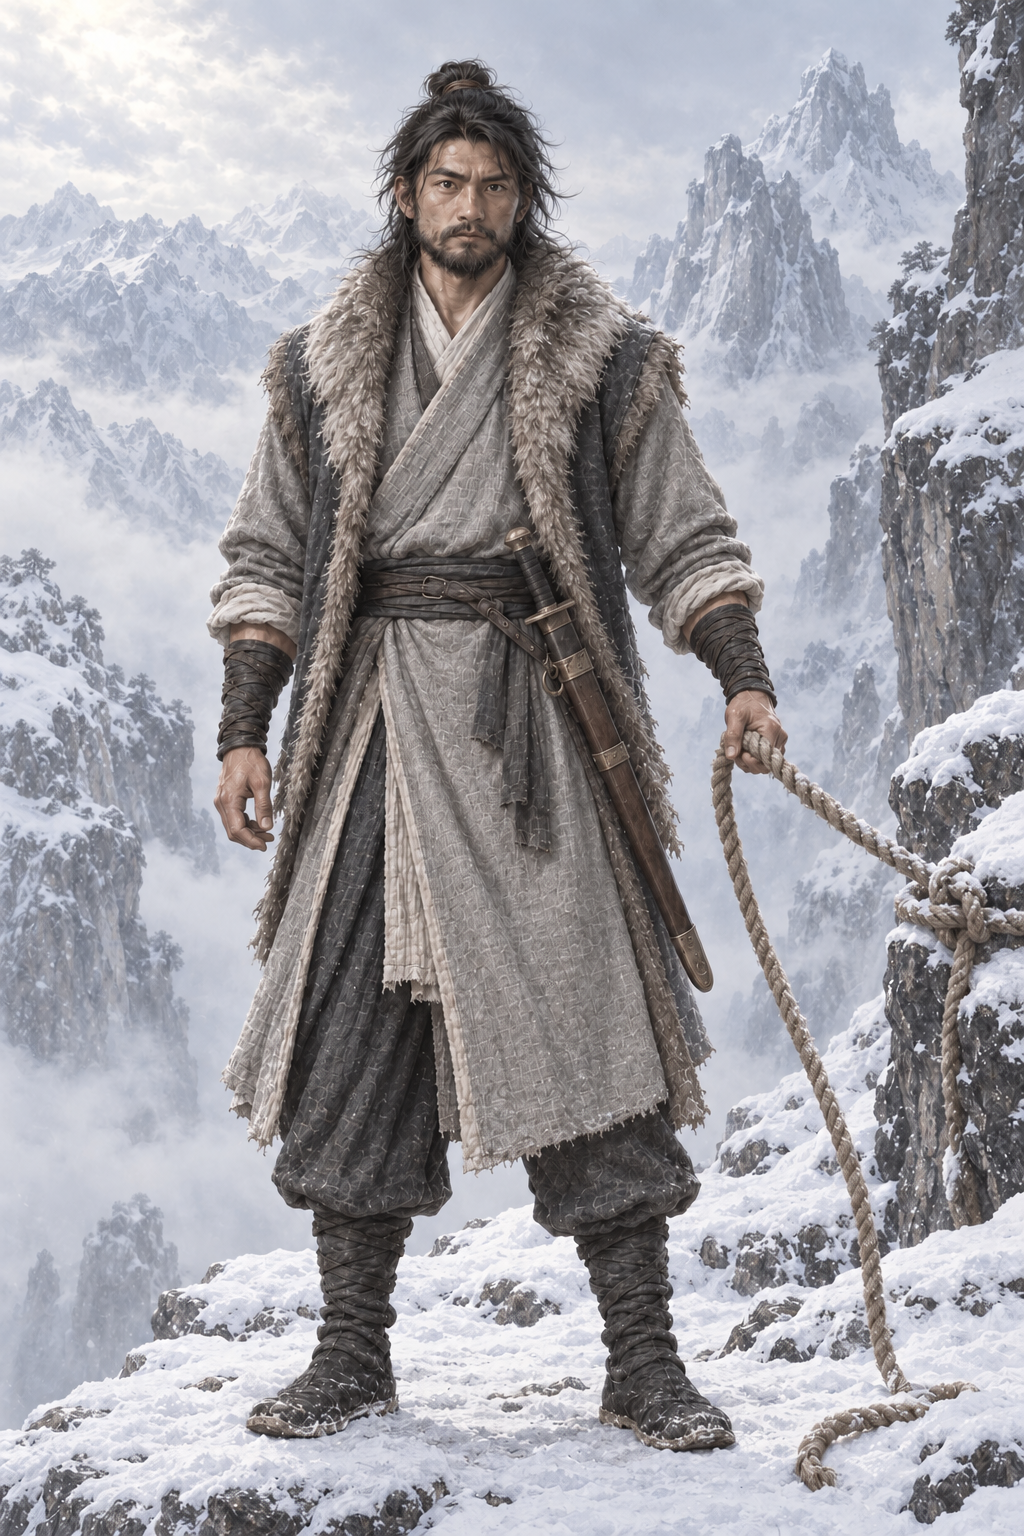
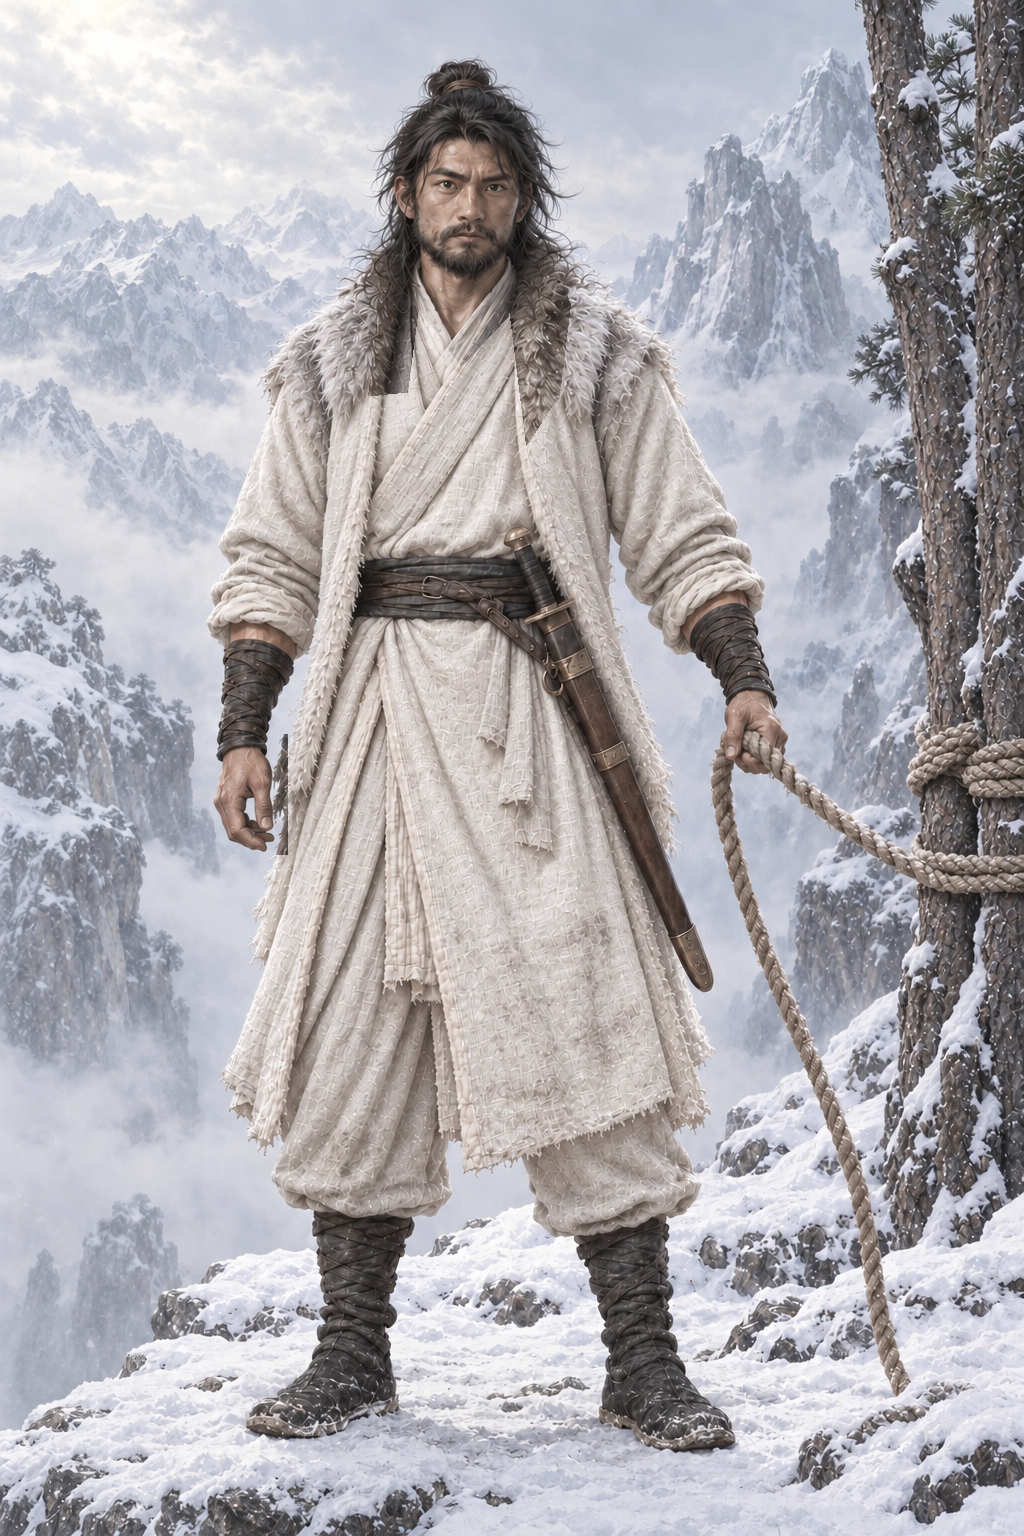
assets: AR-82 原著核对返修 李文秀、马家骏（计老人）、胡斐
修正原著明确的服饰、器物或剧情状态；编辑范围外像素保持，保留既定面容；同步原著摘句及当前返修要求。

Executed-By: Codex gpt-6.1-sol（AR-82）

diff --git a/assets/default/prompts/characters/ch10-baima/npc_liwenxiu__scene_astuo_snow_defense.md b/assets/default/prompts/characters/ch10-baima/npc_liwenxiu__scene_astuo_snow_defense.md
@@ -50,3 +50,15 @@ size: 1024x1536
 - 本轮结果已逐图目检并入库为 candidate；实际作业与参考哈希见 manifest。
 - （待考）上方已发送提示词中的“第六回”仅沿用网页分段定位，不认定为三联／广州修订版正式回目；对应纸本章回与字句仍需终校。
 - 参考例外：未找到可核实为李文秀的剧照；实际上传为本轮新 base、作者游戏封面及双女基线。上方保留已发送提示词的通用“影视造型”句，不能据此认定上传了剧照；以 reference_upload 和 manifest 的实际记录为准。
+
+
+## 原著依据
+
+- AR-82 返修依据：“插入了他左右肩窝”——《白马啸西风》第06章（三联版转载分章，计家屋内夺剑制陈达海）；来源：https://github.com/OliverCWY/JY/blob/master/Markdown/%E4%B8%89%E8%81%94%E7%89%88/%E7%99%BD%E9%A9%AC%E5%95%B8%E8%A5%BF%E9%A3%8E/%E7%AC%AC06%E7%AB%A0.md；执行：场景改为计家屋内火堆旁；先空手迎长剑，再从陈达海腰间夺金银小剑刺入其双肩；画出她护苏普、阿曼的方向及陈达海受制状态。保持作者认可面容。
+
+
+## AR-82 当前返修约束
+
+将李文秀本图由屋外雪地改为计家屋内火堆旁夺金银短剑制伏陈达海的取样。保持李文秀原头部位置、大小、角度、五官与原深蓝衣服、羊皮披肩。身体改为侧身护住画外苏普阿曼的方向，两手各拿一柄从陈达海腰间夺来的匕首尺度短剑（金柄、银柄各一），双臂向旁侧伸出，剑尖分别刺住旁侧陈达海的左右肩窝；只画陈达海局部肩背与受制双臂，不露他的脸，不需完整第二人，他原长剑下垂落势。表现被制住而非血腥：不画喷血、开放伤口。李文秀是主体，不能改成独自垂刀站立。原完整单人尺寸和视角保持，土屋木梁墙壁及小火堆可见，暖火光与冷窗光有原手绘笔触。
+
+以本节及原著依据为当前要求，历史提示词与本节冲突时按本节执行；保留作者选定脸、原画质感与对应剧情阶段。

diff --git a/assets/default/prompts/characters/ch14-xueshan/npc_hufei__scene_yubi_rescue.md b/assets/default/prompts/characters/ch14-xueshan/npc_hufei__scene_yubi_rescue.md
@@ -51,3 +51,16 @@ size: 1024x1536
 
 - 参考分工见实际提示词；配色、姿势、取景及成年化均为（原创扩展）。
 - 本轮结果已逐图目检并入库为 candidate；实际作业与参考哈希见 manifest。
+
+
+## 原著依据
+
+- AR-82 返修依据：《雪山飞狐》第六章：“却是一个白衣男子”；“那白衣男子双足钩住绳索”。；来源：https://github.com/OliverCWY/JY/blob/master/Markdown/%E4%B8%89%E8%81%94%E7%89%88/%E9%9B%AA%E5%B1%B1%E9%A3%9E%E7%8B%90/%E7%AC%AC06%E7%AB%A0.md；执行：第六章登峰及救人后仍穿白衣：主体长袍改白，保留旧化与风霜；不以大块深灰袍、棕色皮层覆盖白衣。救人后的站姿可以保留。
+- AR-82 返修依据：《雪山飞狐》第六章：“将那根粗索缚在崖边两株大松树上”。；来源：https://github.com/OliverCWY/JY/blob/master/Markdown/%E4%B8%89%E8%81%94%E7%89%88/%E9%9B%AA%E5%B1%B1%E9%A3%9E%E7%8B%90/%E7%AC%AC06%E7%AB%A0.md；执行：粗索上端改缚玉笔峰崖边两株大松树，可只画近处树干及绳结；绳路沿悬崖下降，不打结拴石。保留救人后上峰站稳的单人取样。
+
+
+## AR-82 当前返修约束
+
+胡斐玉笔峰救人后的站稳取样，原姿态可保留。主体所有长袍衣料改为旧化白色/乳白色，保留布纹、风霜污痕及左上自然光阴影；外层毛皮缩为小块肩缘浅灰白毛边，不要深灰袍或大片棕皮遮住白衣。腰带、刀鞘、靴子和面容不变。原画面右边粗绳在岩石上的结必须去掉，改为粗索上端牢牢缚在崖边两株大松树的树干上，右边只需近处两株松干与扎实绳结清楚，粗绳仍沿崖下降；不能在石上打结。
+
+以本节及原著依据为当前要求，历史提示词与本节冲突时按本节执行；保留作者选定脸、原画质感与对应剧情阶段。
